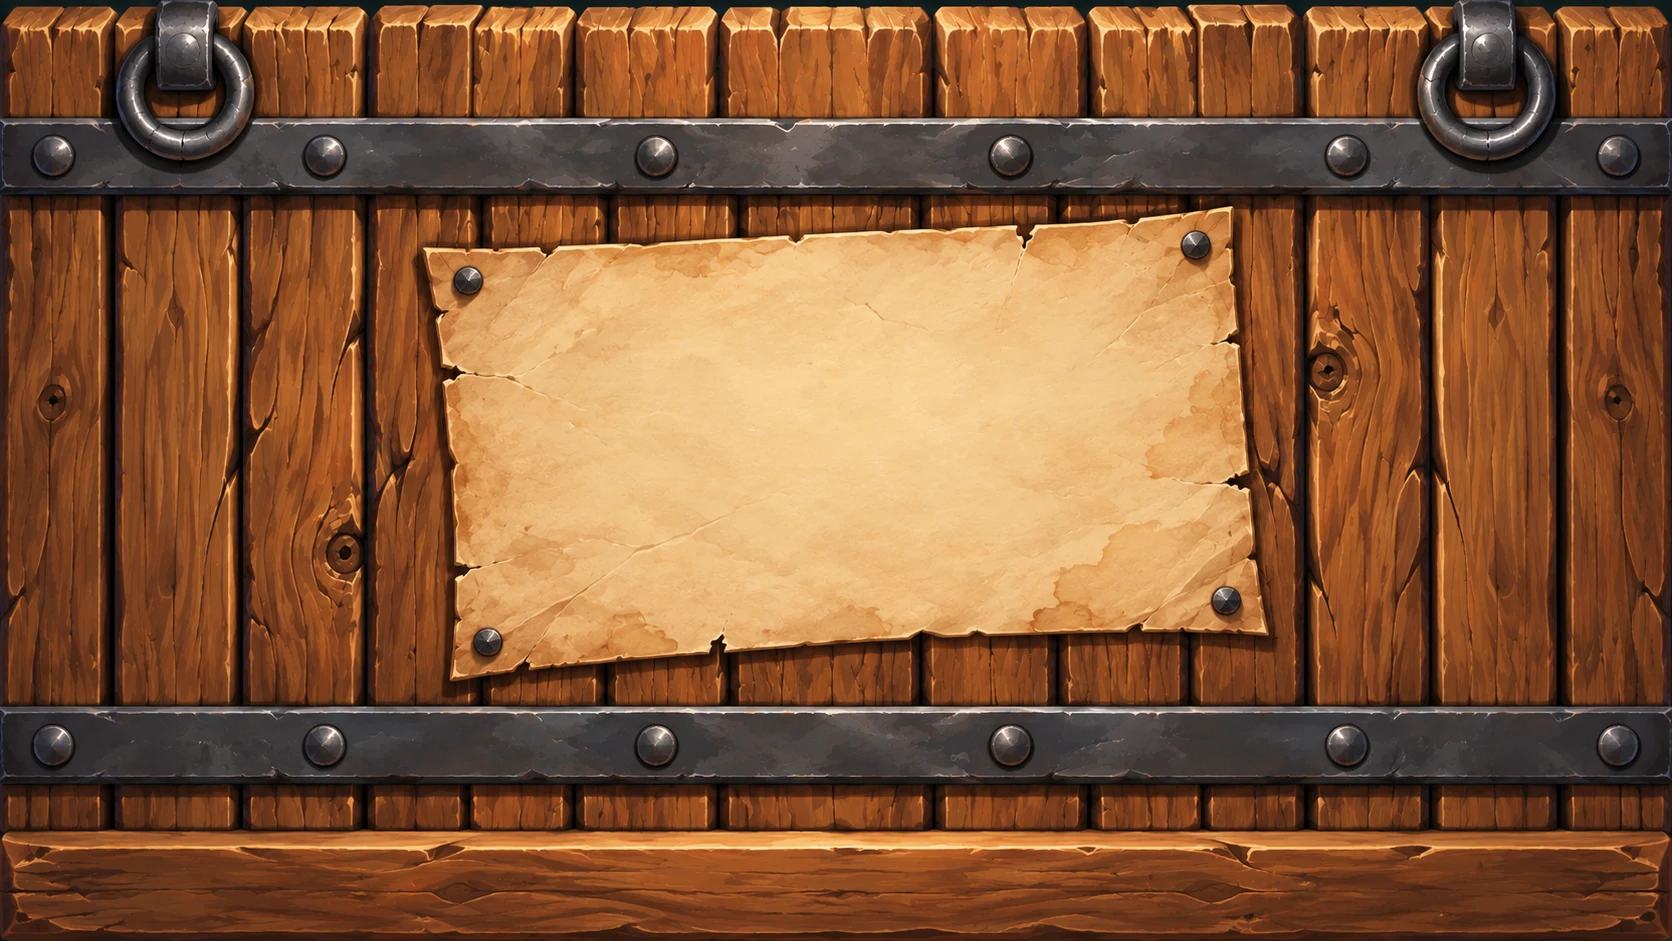
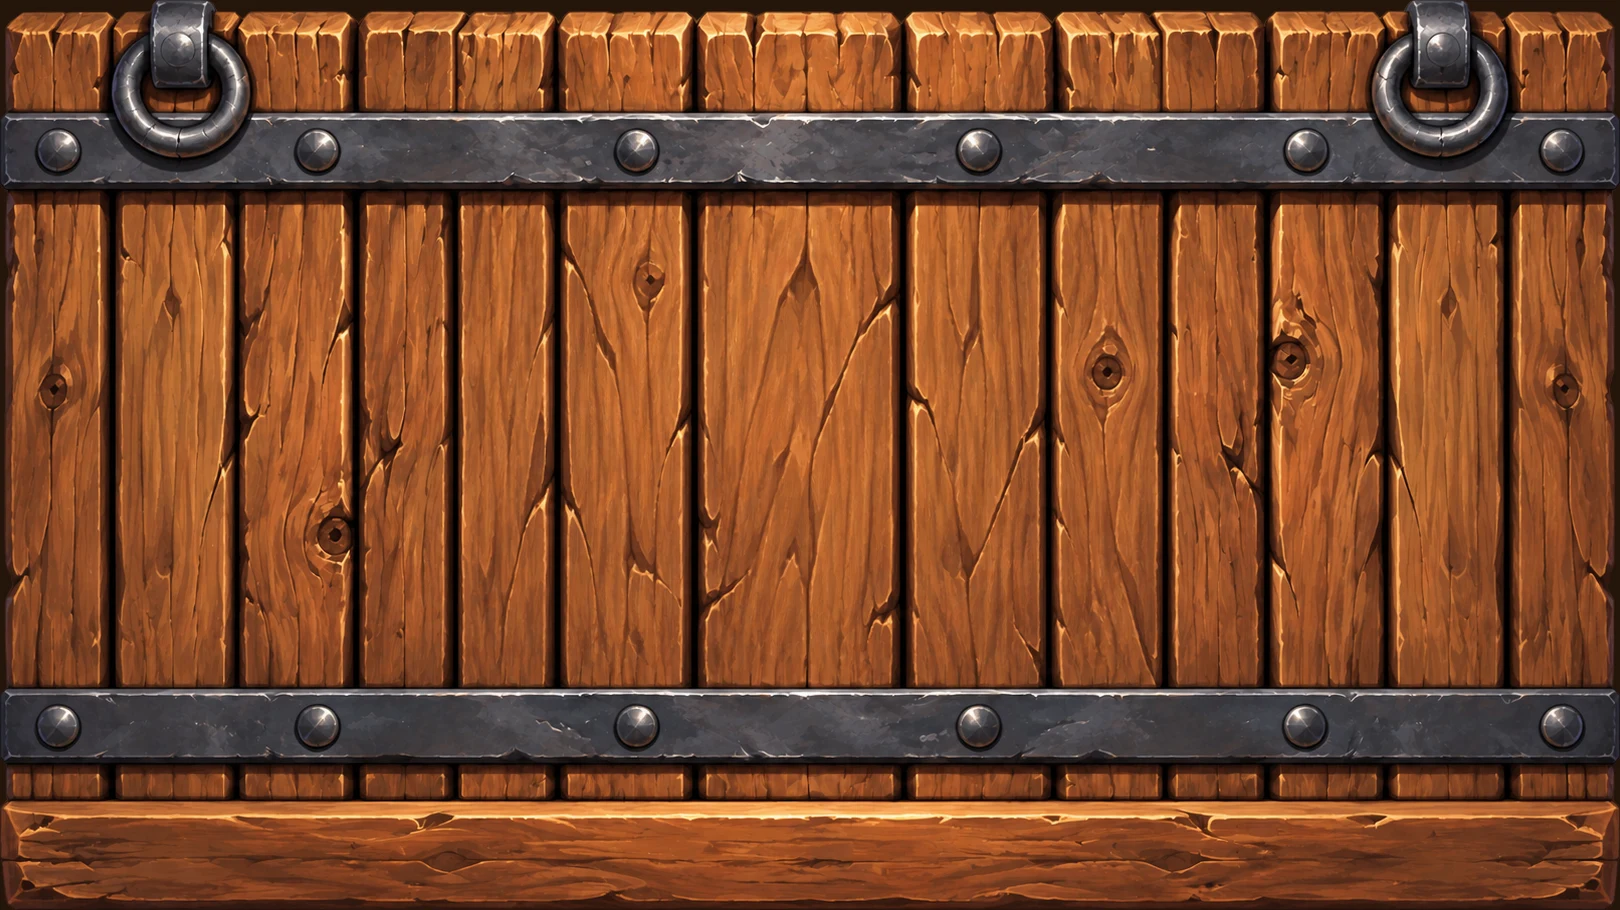
feat(ui): falling gate in two layers - wood gate + a poster swinging on its loose top nail, carrying Now Facing

diff --git a/packages/ui/src/styles.css b/packages/ui/src/styles.css
@@ -401,8 +401,8 @@ canvas.spr { image-rendering: pixelated; display: block; }
    the curtain and kept only for the fronts. */
 /* THE FALLING GATE (owner 2026-10-21: "something that falls from the ceiling of the screen and lands at the bottom of the
    screen with a bang, like a big stone gate ... then it quickly cranks back up to reveal the combat. same goes for
-   shop"). One full-screen slab of painted art (`transition-gate.webp`, the owner's "Blank Parchment Gate Board": a
-   wooden plank gate with a torn parchment nailed to its middle; the art will be replaced) that moves by `transform`
+   shop"). One full-screen slab of painted art (`transition-gate.webp`, the owner's "wood gate": a wooden plank gate with
+   two iron straps, trimmed to its edges with its see-through gaps backed in dark wood; the poster on it is its own layer) that moves by `transform`
    ALONE, like the ranked gate's doors: a clip-path animation is recomputed every frame and could drop a frame on the
    busy End Turn swap, which read as game elements popping in over the blue curtain it replaces.
    The path, by the machine's classes (wipeMachine.curtainClassFor), the same in both directions:
@@ -423,7 +423,7 @@ canvas.spr { image-rendering: pixelated; display: block; }
    without ever opening a gap at the floor while the scene swaps behind it. Shown only while it falls and holds, so a
    parked gate never hangs a sliver into the top of the screen. */
 .wipecurtain::after { content: ''; position: absolute; left: 0; right: 0; top: 100%; height: 6%; display: none; pointer-events: none;
-  background: url('/transition-gate.webp') 50% 100% / max(var(--lvw, 100vw), calc(var(--lvh, 100dvh) * 1.7768)) auto no-repeat;
+  background: url('/transition-gate.webp') 50% 100% / max(var(--lvw, 100vw), calc(var(--lvh, 100dvh) * 1.7802)) auto no-repeat;
   transform: scaleY(-1); transform-origin: 50% 0; }
 .wipecurtain.full::after { display: block; }
 .wipecurtain.full { transform: translateY(0); }
@@ -467,17 +467,47 @@ canvas.spr { image-rendering: pixelated; display: block; }
   display: flex; flex-direction: column; align-items: center; gap: calc(14 * var(--u, 1px));
   animation: wipevsin 480ms cubic-bezier(0.16, 1, 0.3, 1) backwards; animation-delay: 120ms; }
 @keyframes wipevsin { from { opacity: 0; transform: translate(-50%, -46%) scale(0.94); } }
-/* On the falling gate the announcement sits ON THE PARCHMENT, tilted with it (owner 2026-10-22: "make the portrait
-   slightly angled to match the slightly askew parchment"). Measured off the art ("Blank Parchment Gate Board", 1672x941,
-   to be replaced: re-measure then): the paper's centre is 50.4% across and 46.5% down, turned about 3 degrees with
-   its right side higher. The art is drawn with background: cover, so on a screen that is not 16:9 the paper is not
-   at those percentages of the SCREEN: the offsets below are scaled by the size the art is actually drawn at (the
-   larger of the screen and its cover-fit), which keeps the announcement on the paper at any aspect ratio. `rotate` is
-   its own property, so it composes with the translate centring and the fade-in instead of being overwritten. */
-.wipecurtain .wipevs {
-  left: calc(50% + 0.004 * max(var(--lvw, 100vw), calc(var(--lvh, 100dvh) * 1.7768)));
-  top: calc(50% - 0.035 * max(var(--lvh, 100dvh), calc(var(--lvw, 100vw) / 1.7768)));
-  rotate: -3deg; }
+/* THE POSTER (owner 2026-10-22: "have the gate slam down while the poster sort of wiggles separately, because the nail
+   holding it isnt perfectly tight. and the opponent card will follow the movement of that poster"). Its own image
+   (`transition-poster.webp`, the paper trimmed to its edges, transparent around them) laid on the gate between its two
+   iron straps, hanging from its TOP-CENTRE NAIL (`transform-origin`, measured off the art at 48.4% across, 9.8% down).
+   It is sized and placed by the size the gate art is actually drawn at (`--gate-hi`, the cover-fit height), so it stays
+   on the same spot of the wood on any screen shape: 49% of the gate's height, centred across, its middle 48.2% down
+   (the clear wood between the straps). NOW FACING / RETURNING TO SHOP sits on it, centred on the paper and turned with
+   it (-3.3 degrees, measured off its edges), so every swing carries the opponent with it. Transform-only, one shot per
+   slam and per crank (CLAUDE.md perf rules). */
+.wipecurtain { --gate-hi: max(var(--lvh, 100dvh), calc(var(--lvw, 100vw) / 1.7802)); }
+.wipeposter { position: absolute; left: 50%; top: calc(50% - 0.018 * var(--gate-hi));
+  width: calc(0.49 * 1.8012 * var(--gate-hi)); height: calc(0.49 * var(--gate-hi)); translate: -50% -50%;
+  background: url('/transition-poster.webp') 50% 50% / 100% 100% no-repeat; pointer-events: none;
+  transform-origin: 48.4% 9.8%; transform: rotate(0deg); will-change: transform; }
+.wipeposter .wipevs { rotate: -3.3deg; }
+/* THE SLAM: the gate stops dead and the paper doesn't. It is knocked down and crooked on its loose nail, swings back
+   and forth a few times, less each time, and comes to rest a little crooked (0.8 degrees). */
+.wipecurtain.full.settle .wipeposter { animation: posterslam 1300ms both; }
+@keyframes posterslam {
+  0% { transform: rotate(0deg) translateY(0); animation-timing-function: cubic-bezier(.1, .7, .3, 1); }
+  7% { transform: rotate(4deg) translateY(1.6%); animation-timing-function: ease-in-out; }
+  18% { transform: rotate(-1.6deg) translateY(-0.5%); animation-timing-function: ease-in-out; }
+  30% { transform: rotate(2.5deg) translateY(0); animation-timing-function: ease-in-out; }
+  43% { transform: rotate(-0.3deg); animation-timing-function: ease-in-out; }
+  57% { transform: rotate(1.5deg); animation-timing-function: ease-in-out; }
+  72% { transform: rotate(0.45deg); animation-timing-function: ease-in-out; }
+  86% { transform: rotate(1deg); animation-timing-function: ease-in-out; }
+  100% { transform: rotate(0.8deg); } }
+/* THE CRANK: as the gate is winched up and sways (`wipecrank`), the paper lags behind each tilt and swings the other
+   way, so the poster wobbles on its own all the way out. */
+.wipecurtain.gone .wipeposter { animation: postercrank var(--wipe-reveal-dur, 450ms) both; }
+.wipecurtain.gone.parked .wipeposter { animation: none; }
+@keyframes postercrank {
+  0% { transform: rotate(0.8deg); animation-timing-function: ease-in-out; }
+  12% { transform: rotate(-1.5deg); animation-timing-function: ease-in-out; }
+  24% { transform: rotate(2.2deg); animation-timing-function: ease-in-out; }
+  38% { transform: rotate(3deg); animation-timing-function: ease-in-out; }
+  50% { transform: rotate(-1.2deg); animation-timing-function: ease-in-out; }
+  62% { transform: rotate(-2.4deg); animation-timing-function: ease-in-out; }
+  78% { transform: rotate(1.6deg); animation-timing-function: ease-in-out; }
+  100% { transform: rotate(0.4deg); } }
 /* The curtain announcements wear the TITLE's font (owner ask 2026-08-29 — Cinzel Decorative 600, the
    shipped --title-font): retuning the logo font in the 🏔 tuner re-dresses the curtain to match. The face
    is loaded at boot by the title screen, so it is always ready by the first fight. */

diff --git a/packages/ui/src/Recruit.tsx b/packages/ui/src/Recruit.tsx
@@ -2366,6 +2366,7 @@ export function Recruit() {
     new Image().src = `${import.meta.env.BASE_URL}return-to-shop.webp`;
     // …and the falling gate's own art and sounds (2026-10-21), so the first End Turn never drops a bare colour.
     new Image().src = `${import.meta.env.BASE_URL}transition-gate.webp`;
+    new Image().src = `${import.meta.env.BASE_URL}transition-poster.webp`;
     sfx.warmGate();
     if (!PHONE_GPU) gateFx.warm(); // the landing dust (see the falling gate's sounds below)
   }, []);
@@ -8146,6 +8147,9 @@ export function Recruit() {
           sanctioned one-shot kind. */}
       {createPortal(<>
       <div className={curtainClass} aria-hidden="true" onTransitionEnd={onWipeEnd} onAnimationEnd={onWipeAnimEnd} style={wipeVars}>
+        {/* THE POSTER (owner 2026-10-22): a separate parchment nailed to the gate by one loose nail, which swings on it when
+            the gate slams and as it is cranked up. The announcement rides on it, so it swings too (`.wipeposter`). */}
+        <div className="wipeposter">
         {/* NOW FACING — the versus announcement on the blue (owner ask 2026-08-28). A child of the curtain,
             so its clip-path carries it: the cover sweep reveals the splash and the reveal sweep wipes it
             away, no timing of its own. Entry only (the exit curtain is a plain blue beat), lobby runs only
@@ -8186,6 +8190,7 @@ export function Recruit() {
             <img decoding="sync" className="wipevs-face" src={`${import.meta.env.BASE_URL}return-to-shop.webp`} alt="" draggable={false} />
           </div>
         )}
+        </div>
       </div>
       {/* TWO glow fronts for the hybrid: the RING rides the bloom's seam on covers (grows with the circle,
           parked snapped at base otherwise), and the vertical BAR rides the linear reveals — parked at the

diff --git a/packages/ui/src/wipeMachine.test.ts b/packages/ui/src/wipeMachine.test.ts
@@ -66,7 +66,9 @@ describe('the wipe machine', () => {
     expect(rule).toMatch(/transition: transform /);
     expect(rule).not.toMatch(/clip-path/);
     expect(css).not.toMatch(/\.wipecurtain[^{]*\{[^}]*clip-path/);
-    for (const k of ['wipeslam', 'wipecrank']) {
+    // (…and the poster swinging on its nail, owner 2026-10-22: "the poster sort of wiggles separately".)
+    expect(css).toMatch(/\.wipecurtain\.gone\.parked \.wipeposter \{ animation: none; \}/);
+    for (const k of ['wipeslam', 'wipecrank', 'posterslam', 'postercrank']) {
       const frames = new RegExp(`@keyframes ${k} \\{([\\s\\S]*?)\\} \\}`).exec(css)?.[1] ?? '';
       expect(frames, k).toMatch(/transform/);
       expect(frames.replace(/transform: [^;]*;|animation-timing-function: [^;]*;/g, ''), k).not.toMatch(/:\s*[^;{}]+;/);
